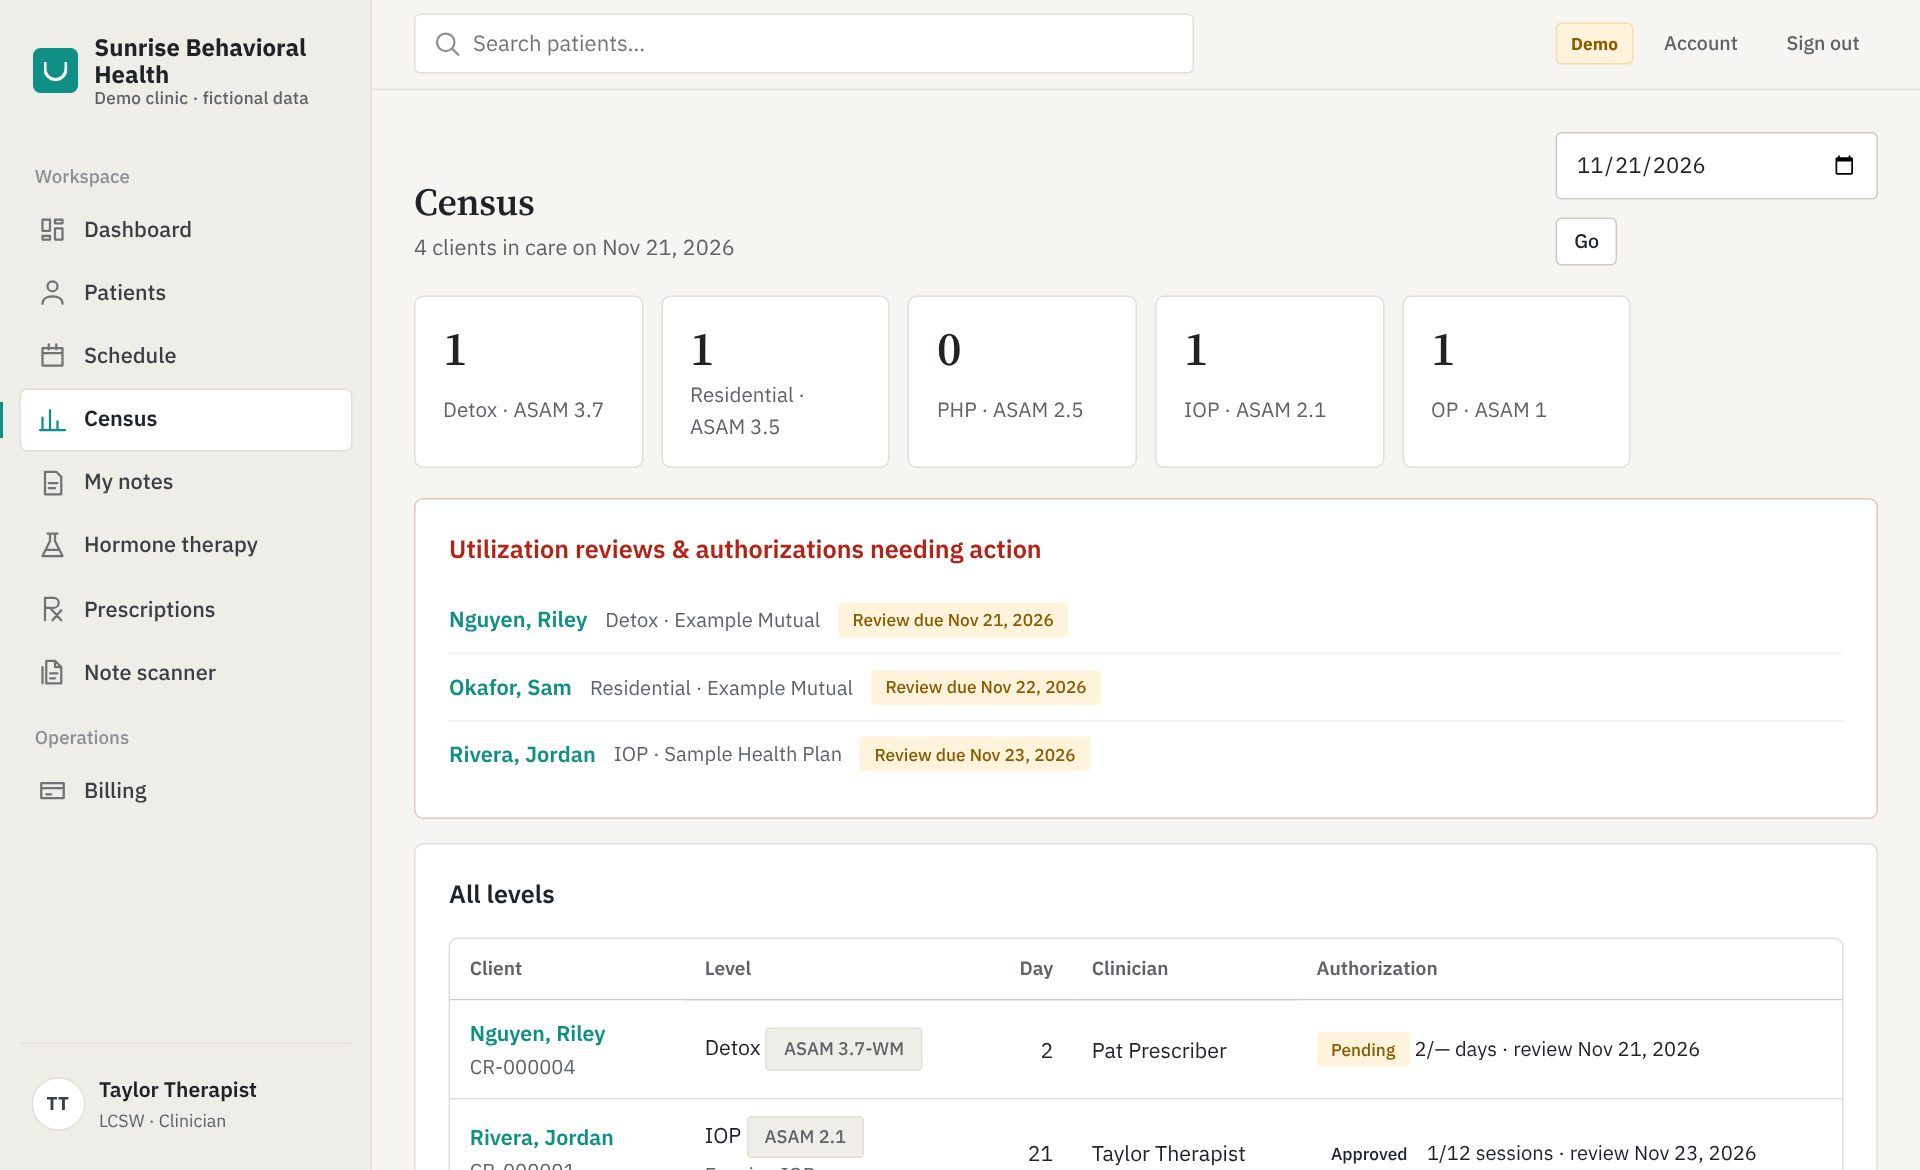
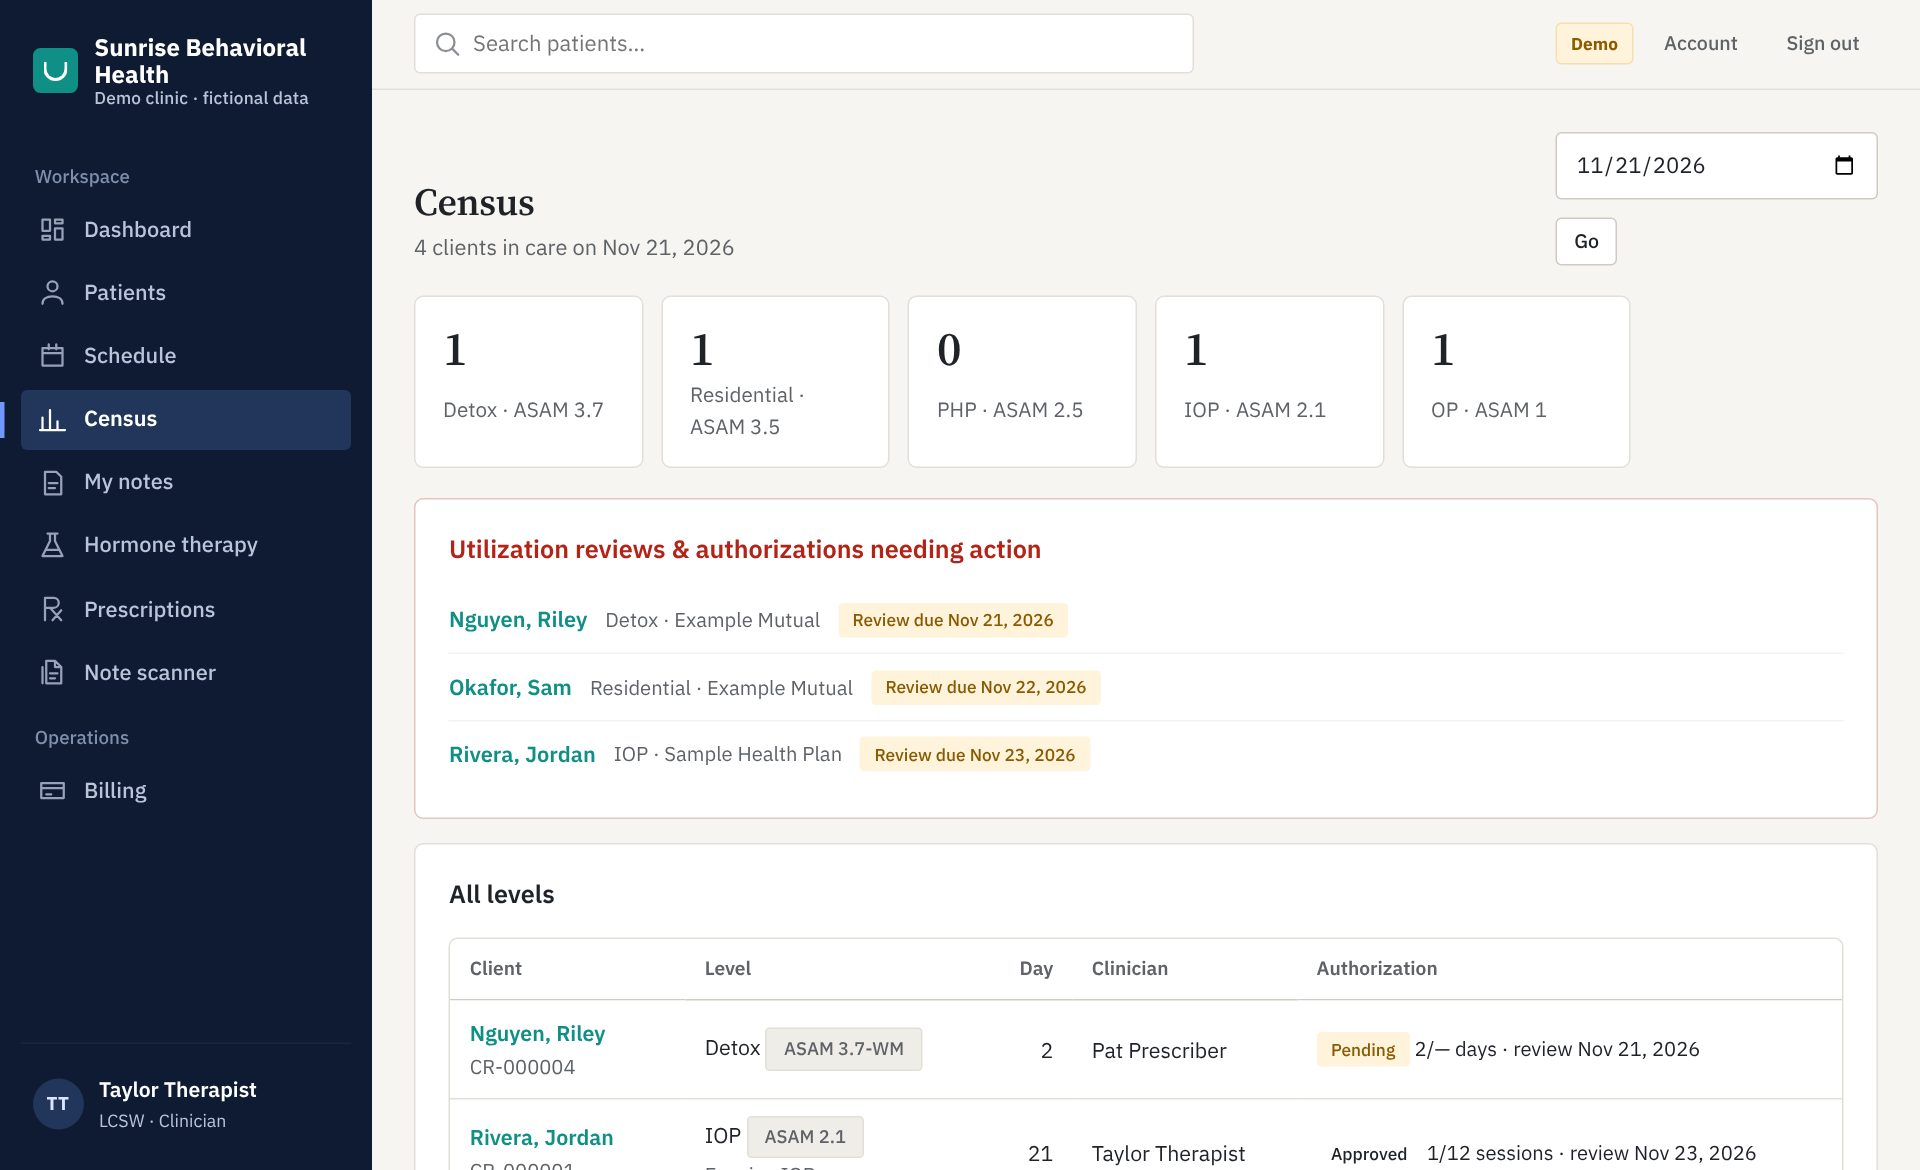
Bring back the navy sidebar
Claude-Session: https://claude.ai/code/session_01MtJB2rx3w4RwSB11WKgG2F

Changed region(s): [[0.0, 0.0, 0.2188, 1.0]]

diff --git a/ehr/public/ehr.css b/ehr/public/ehr.css
@@ -782,22 +782,22 @@ h2 { font-weight: 600; letter-spacing: 0; }
 .avatar, .topbar__me .avatar, .chart-head > .avatar--lg { background: var(--surface-3); color: var(--side-text); box-shadow: none; }
 .chart-head > .avatar--lg { box-shadow: 0 0 0 1px var(--border); }
 
-/* Sidebar: light, like a paper index */
-@media (min-width: 960px) { .app { background: linear-gradient(to right, var(--side) 248px, var(--bg) 248px); } }
-.sidebar { background: var(--side); color: var(--side-text); box-shadow: inset -1px 0 0 var(--border); }
-.sidebar__brand, .sidebar__brand:hover { color: var(--text); }
-.sidebar__brand small, .sidebar__user small { color: var(--muted); }
-.sidebar__label { text-transform: none; letter-spacing: 0; font-size: .78rem; font-weight: 500; color: var(--faint); }
-.sidebar nav a { color: var(--side-text); font-weight: 500; border-radius: 4px; }
-.sidebar nav a svg { opacity: .7; }
-.sidebar nav a:hover { background: rgba(31, 35, 40, .05); color: var(--text); }
-.sidebar nav a[aria-current="page"] { background: var(--surface); color: var(--text); box-shadow: 0 0 0 1px var(--border); font-weight: 600; }
-.sidebar nav a[aria-current="page"]::before { left: -.85rem; width: 2px; border-radius: 0; background: var(--primary); }
-.sidebar nav a[aria-current="page"] svg { opacity: 1; color: var(--primary); }
-.sidebar__foot { border-top-color: var(--border); }
-.sidebar__user, .sidebar__user:hover { color: var(--text); }
-.sidebar__user:hover { background: rgba(31, 35, 40, .05); }
-.sidebar__user .avatar { background: var(--surface); color: var(--side-text); box-shadow: 0 0 0 1px var(--border); }
+/* Sidebar: navy */
+@media (min-width: 960px) { .app { background: linear-gradient(to right, var(--navy) 248px, var(--bg) 248px); } }
+.sidebar { background: var(--navy); color: var(--navy-text); box-shadow: none; }
+.sidebar__brand, .sidebar__brand:hover { color: #fff; }
+.sidebar__brand small, .sidebar__user small { color: var(--navy-text); }
+.sidebar__label { text-transform: none; letter-spacing: 0; font-size: .78rem; font-weight: 500; color: #7f8fab; }
+.sidebar nav a { color: var(--navy-text); font-weight: 500; border-radius: 4px; }
+.sidebar nav a svg { opacity: .8; }
+.sidebar nav a:hover { background: var(--navy-2); color: #fff; }
+.sidebar nav a[aria-current="page"] { background: var(--navy-3); color: #fff; box-shadow: none; font-weight: 600; }
+.sidebar nav a[aria-current="page"]::before { left: -.85rem; width: 3px; border-radius: 0; background: #6f97ff; }
+.sidebar nav a[aria-current="page"] svg { opacity: 1; color: #fff; }
+.sidebar__foot { border-top-color: var(--navy-2); }
+.sidebar__user, .sidebar__user:hover { color: #fff; }
+.sidebar__user:hover { background: var(--navy-2); }
+.sidebar__user .avatar { background: var(--navy-3); color: #dbe5ff; box-shadow: none; }
 
 /* Top bar */
 .topbar { background: var(--bg); backdrop-filter: none; -webkit-backdrop-filter: none; border-bottom: 1px solid var(--border); }

diff --git a/ehr/src/views.js b/ehr/src/views.js
@@ -237,7 +237,7 @@ function page(req, { title, active = "", body, bare = false }) {
   <link rel="preconnect" href="https://fonts.googleapis.com">
   <link rel="preconnect" href="https://fonts.gstatic.com" crossorigin>
   <link href="https://fonts.googleapis.com/css2?family=IBM+Plex+Sans:wght@400;500;600;700&family=Source+Serif+4:opsz,wght@8..60,600&display=swap" rel="stylesheet">
-  <link rel="stylesheet" href="/ehr/static/ehr.css?v=25">${brandCss(clinic) ? raw(`<style>${brandCss(clinic)}</style>`) : ""}
+  <link rel="stylesheet" href="/ehr/static/ehr.css?v=26">${brandCss(clinic) ? raw(`<style>${brandCss(clinic)}</style>`) : ""}
 </head>
 <body>
   <a class="skip-link" href="#main">Skip to content</a>
